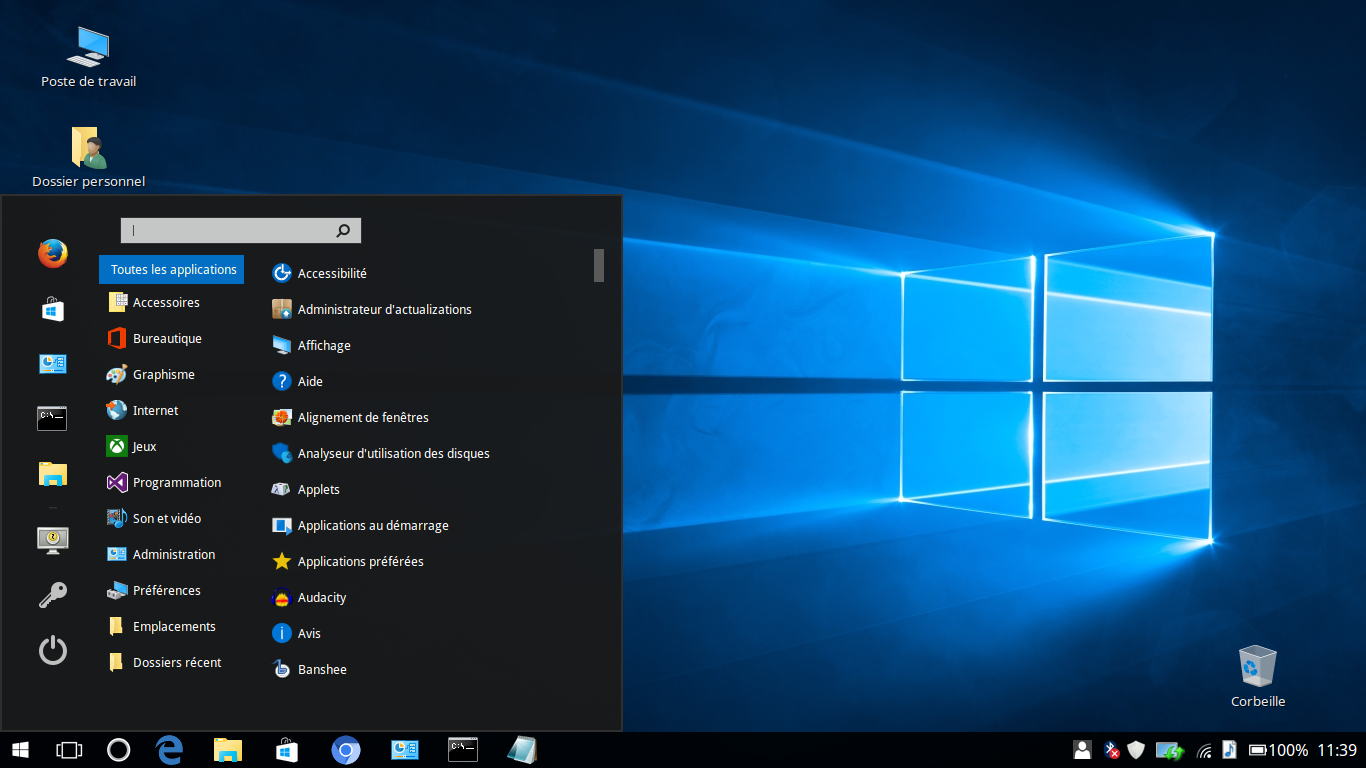
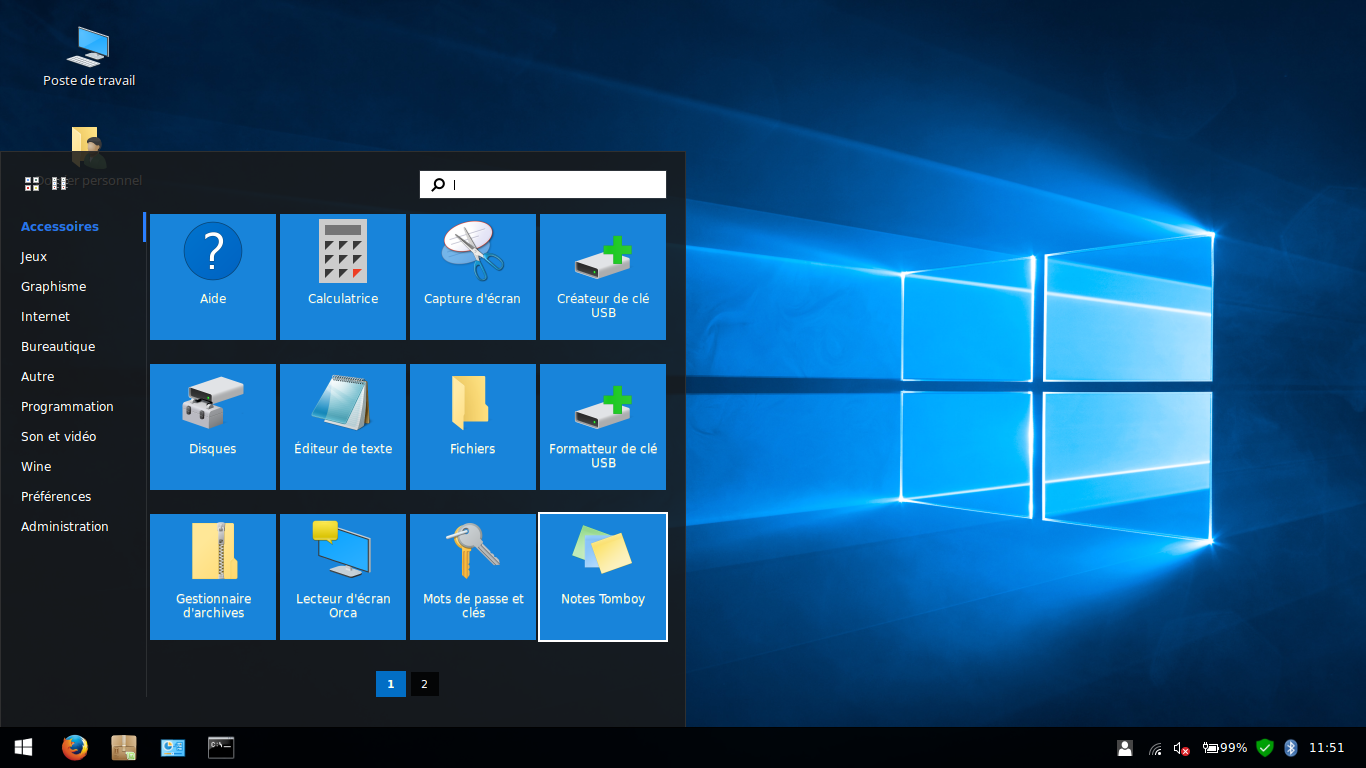
New Cinnamon theme fixes (colors and look/feel)

diff --git a/cinnamon/third-party-APPLET-stylesheets/slingshot.css b/cinnamon/third-party-APPLET-stylesheets/slingshot.css
@@ -83,18 +83,13 @@
 /*--- App Buttons ---*/
 
 .slingshot .button.app {
-    border-image: none;
-    border-width: 0;
+    background-color: rgba(0,0,0,0.3);
     font-size: 9pt;
     padding: 0;
 }
 
 .slingshot .app:hover {
-    border-image: url("../background-assets/hover.svg") 4;
-    background-gradient-direction: vertical;
-    background-gradient-end: transparent;
-    background-gradient-start: transparent;
-    background-color: transparent;
+    background-color: rgba(255,255,255,0.3);
     color: #fff;
 }
 
